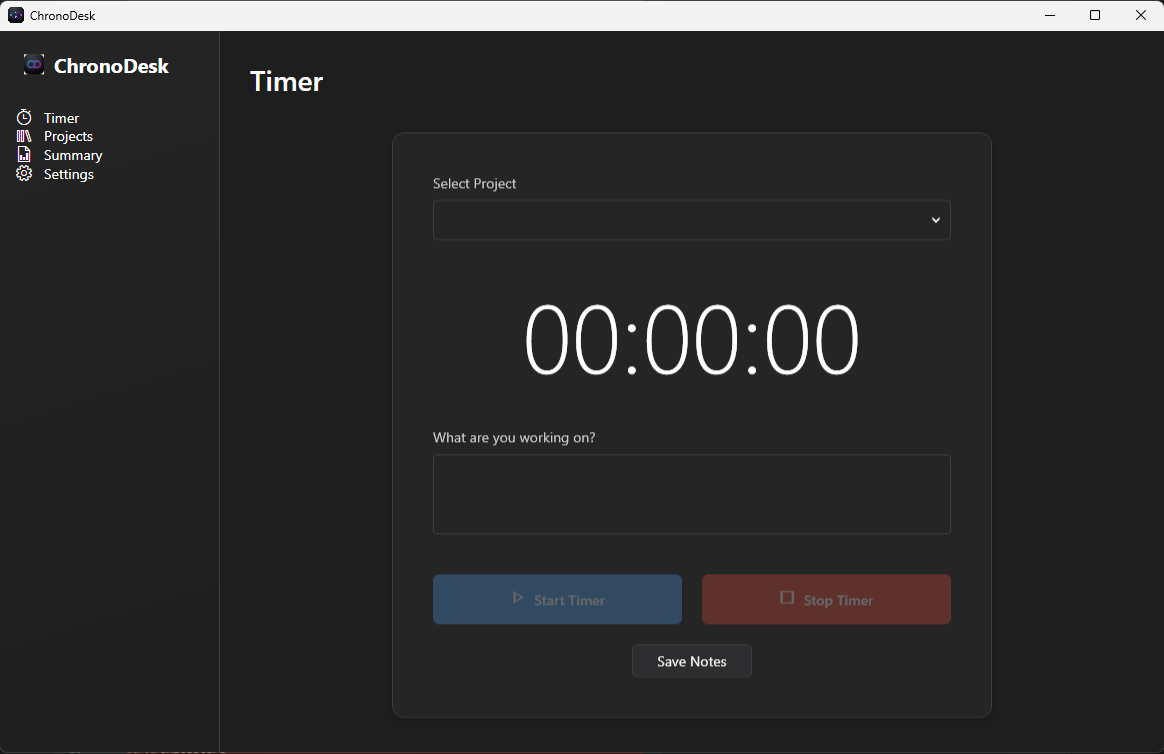
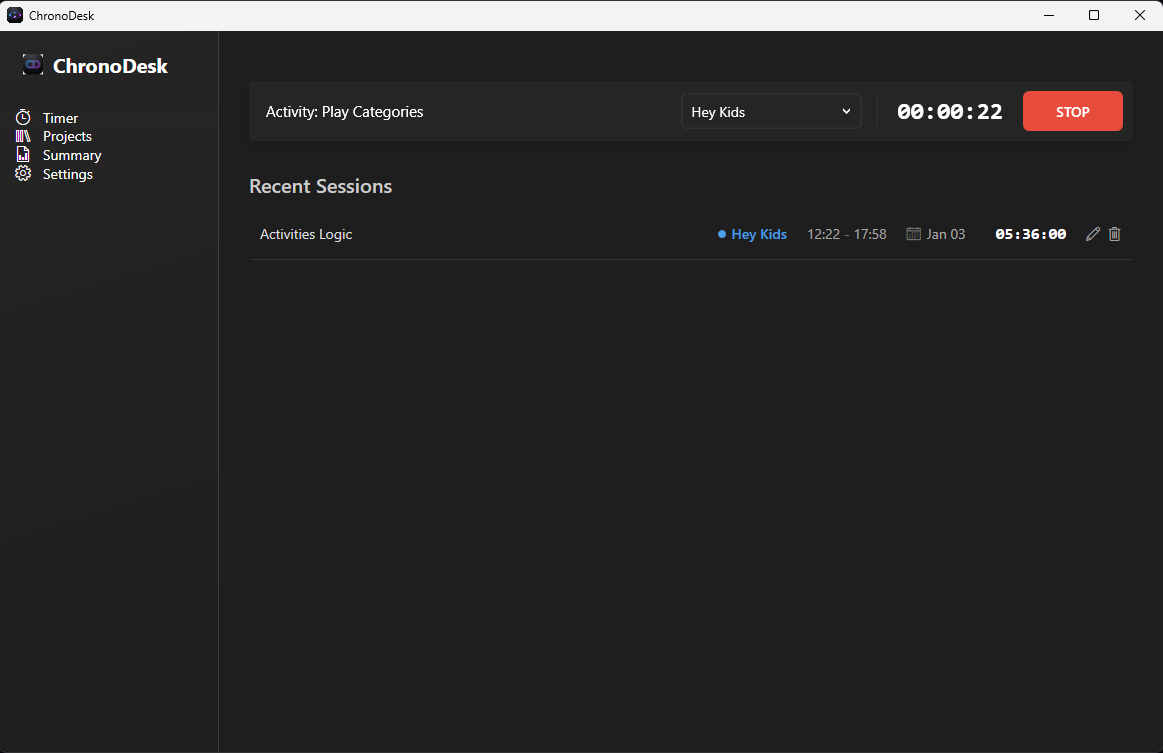
readme update

diff --git a/README.md b/README.md
@@ -4,6 +4,8 @@ ChronoDesk is a premium, modern Windows desktop time-tracking application built 
 
 ![ChronoDesk UI](assets/ss.png)
 
+![ChronoDesk UI](assets/ss-summary.png)
+
 ## ✨ Features
 
 *   **Modern Aesthetics**: A high-end dark theme featuring glassmorphism effects, smooth animations (fade/slide), and premium typography.
